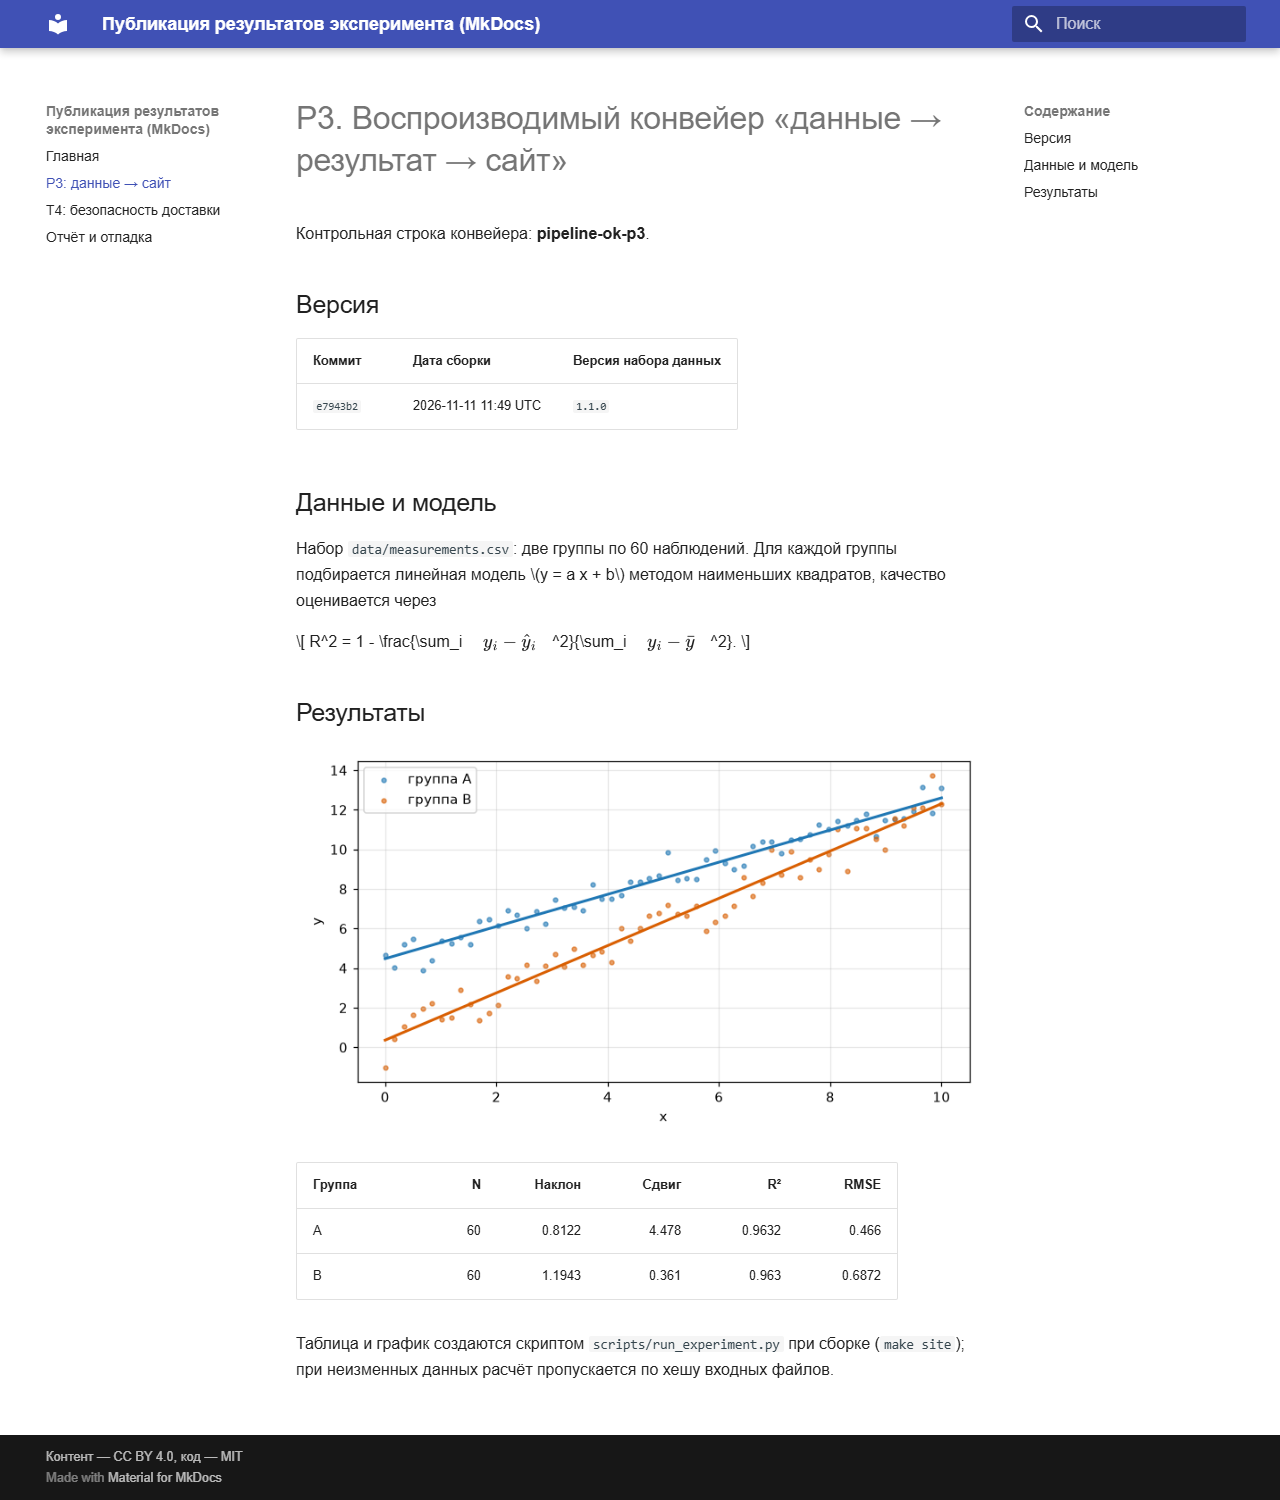
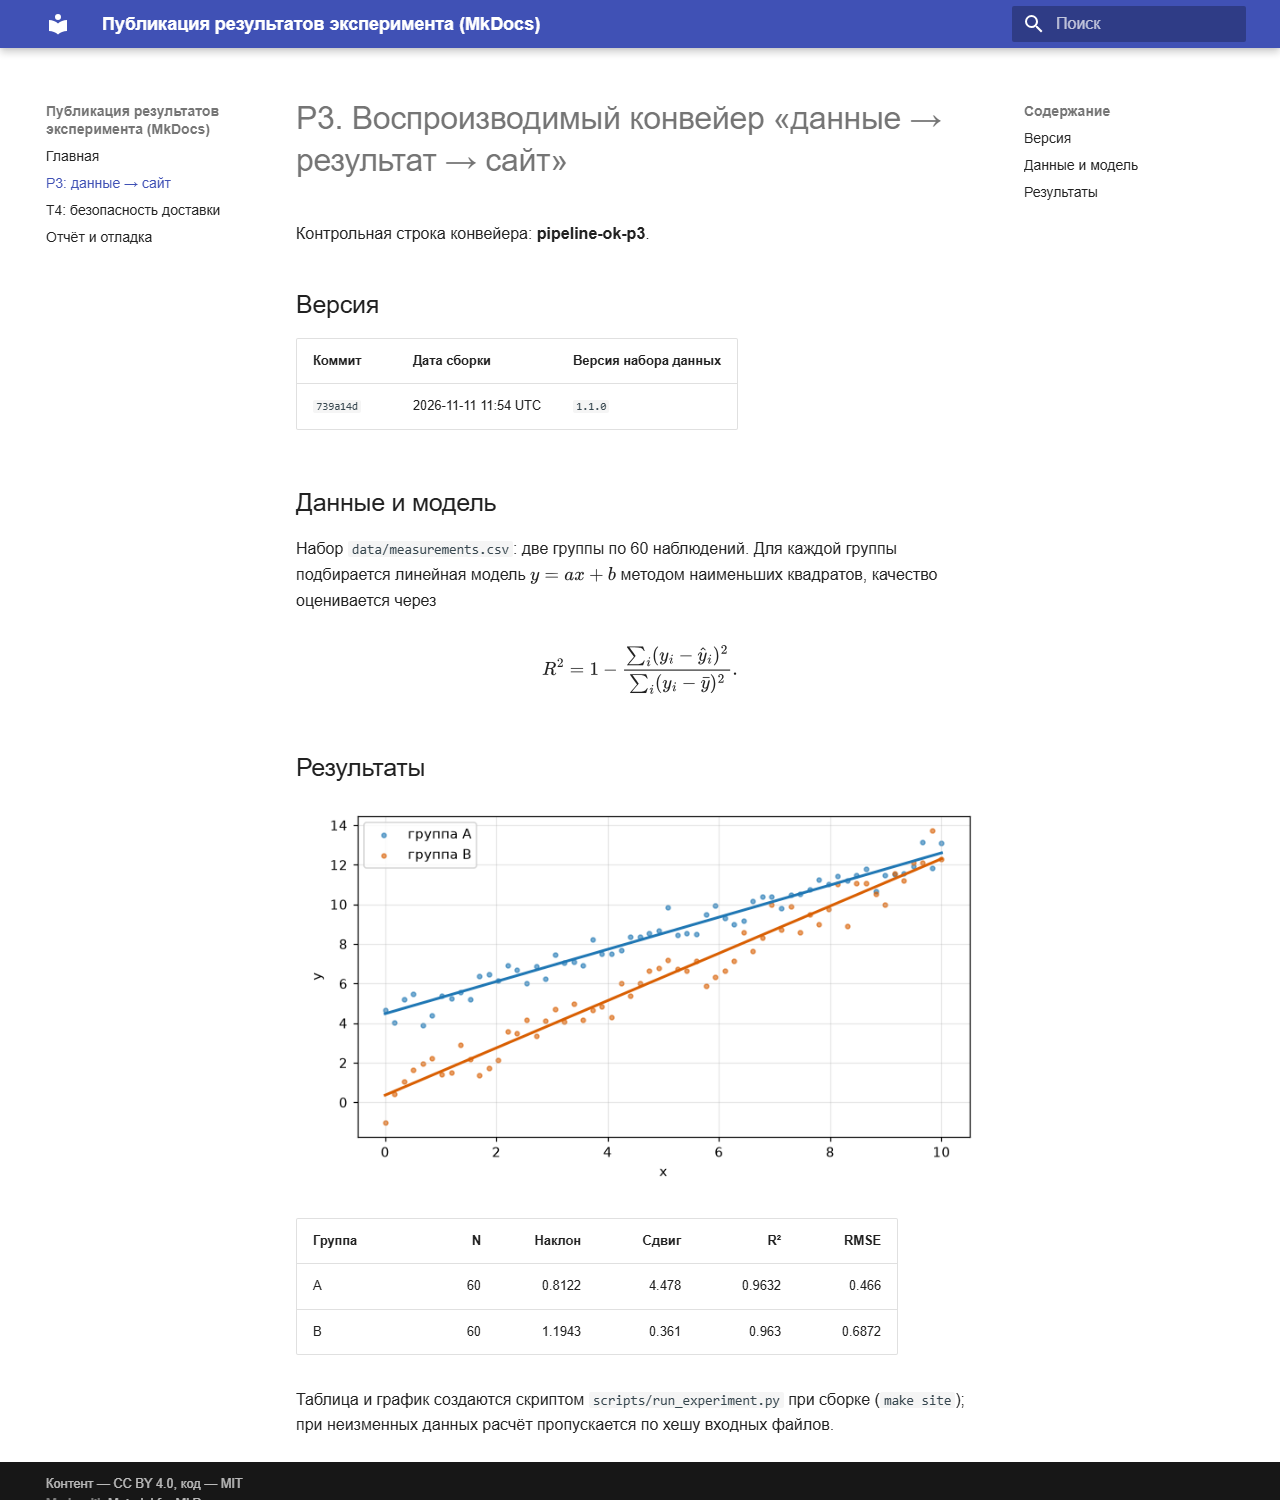
Report: fix debug table, updated screenshots

diff --git a/docs/report.md b/docs/report.md
@@ -30,7 +30,7 @@
 | 5 | Run на GitHub: `failure`, **0 jobs**, workflow не стартовал | Невалидный YAML: при правке файла скриптом `
 ` внутри `printf '%s
 '` стал реальным переводом строки | `yaml.safe_load` локально: `could not find expected ':'`, line 90 | Экранирование исправлено, в процесс добавлена локальная проверка YAML (pyyaml) перед пушем |
-| 6 | На опубликованном сайте формула показана сырым LaTeX (`\[ R^2 = 1 - rac{...`), хотя проверка «2 × `mjx-container`» прошла | Конфиг MathJax неверен: оболочка Bash схлопнула `\` в `\`, и разделителями стали обычные скобки `(` `)`; найденные 2 контейнера — это `(y_i - \hat y_i)`, а не формулы | Скриншот страницы, `cat docs/javascripts/mathjax-config.js`, поиск `frac{` в DOM после отрисовки | Файл записан инструментом Write с корректным экранированием; проверка усилена: в DOM нет `frac{`, есть inline- и display-контейнеры (вес и результат T4 не изменились) |
+| 6 | На опубликованном сайте формула показана сырым LaTeX (`\[ R^2 = 1 - \frac{...`), хотя проверка «2 контейнера `mjx-container`» прошла | Конфиг MathJax неверен: оболочка Bash схлопнула `\\` в `\`, и разделителями формул стали обычные скобки; найденные 2 контейнера — это `(y_i - \hat y_i)`, а не формулы | Скриншот страницы, `cat docs/javascripts/mathjax-config.js`, поиск `frac{` в DOM после отрисовки | Файл записан инструментом Write с корректным экранированием; проверка усилена: в DOM нет `frac{`, есть inline- и display-контейнеры |
 
 ## Ссылки
 
@@ -88,6 +88,8 @@ push / PR (любая ветка)
 ![Страница P3, десктоп](assets/screens/site-results-desktop.png)
 
 ![Страница P3, мобильный](assets/screens/site-results-mobile.png)
+
+Примечание: headless Chrome не создаёт окно уже ~500 px, поэтому снимок «390 px» обрезан справа; это артефакт съёмки, а не вёрстки (Material адаптивен, меню свёрнуто в «гамбургер»). Полноценную проверку на устройстве/эмуляторе при необходимости нужно повторить.
 
 Успешный запуск (`e7943b2`) и намеренно проваленный (ветка `broken-link`):
 
